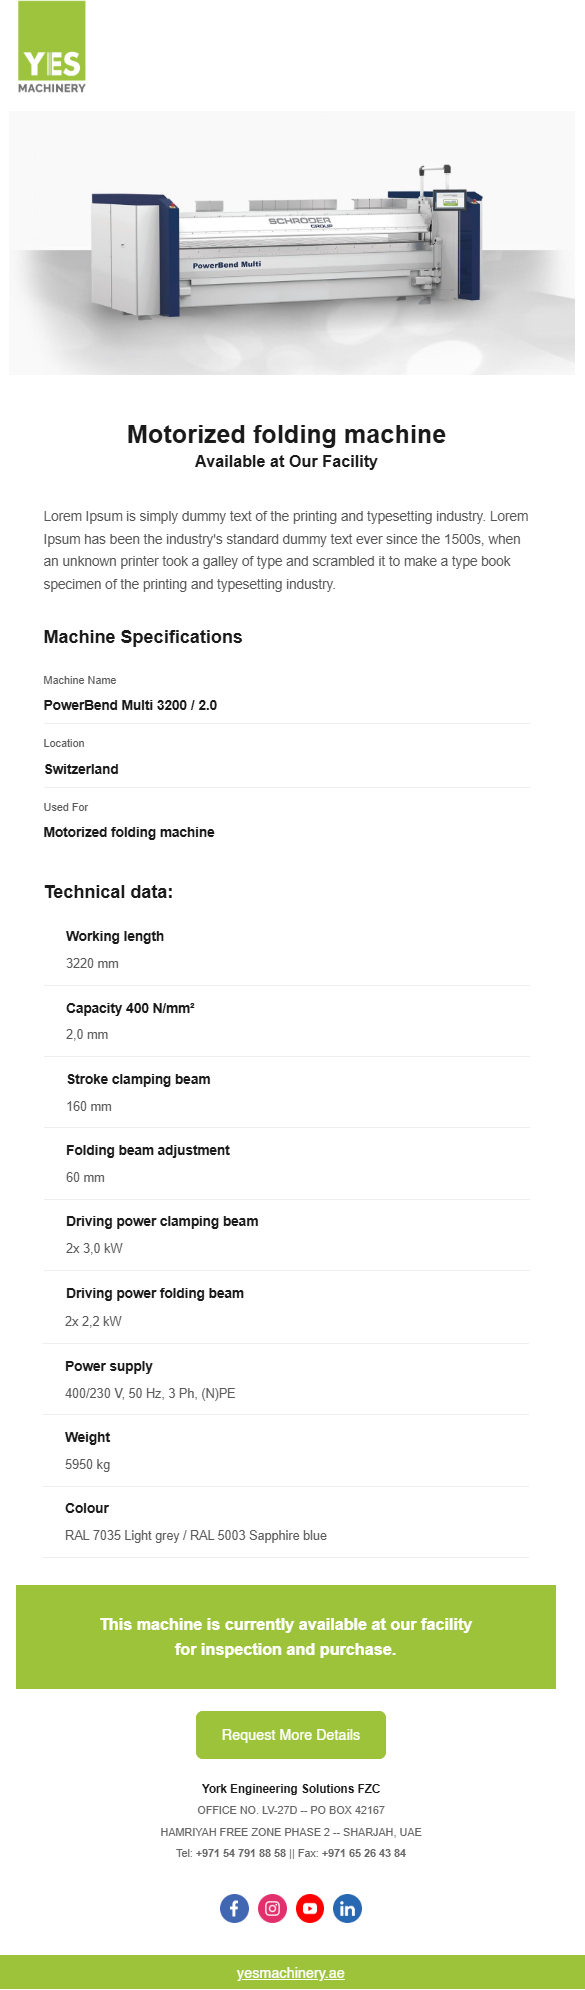
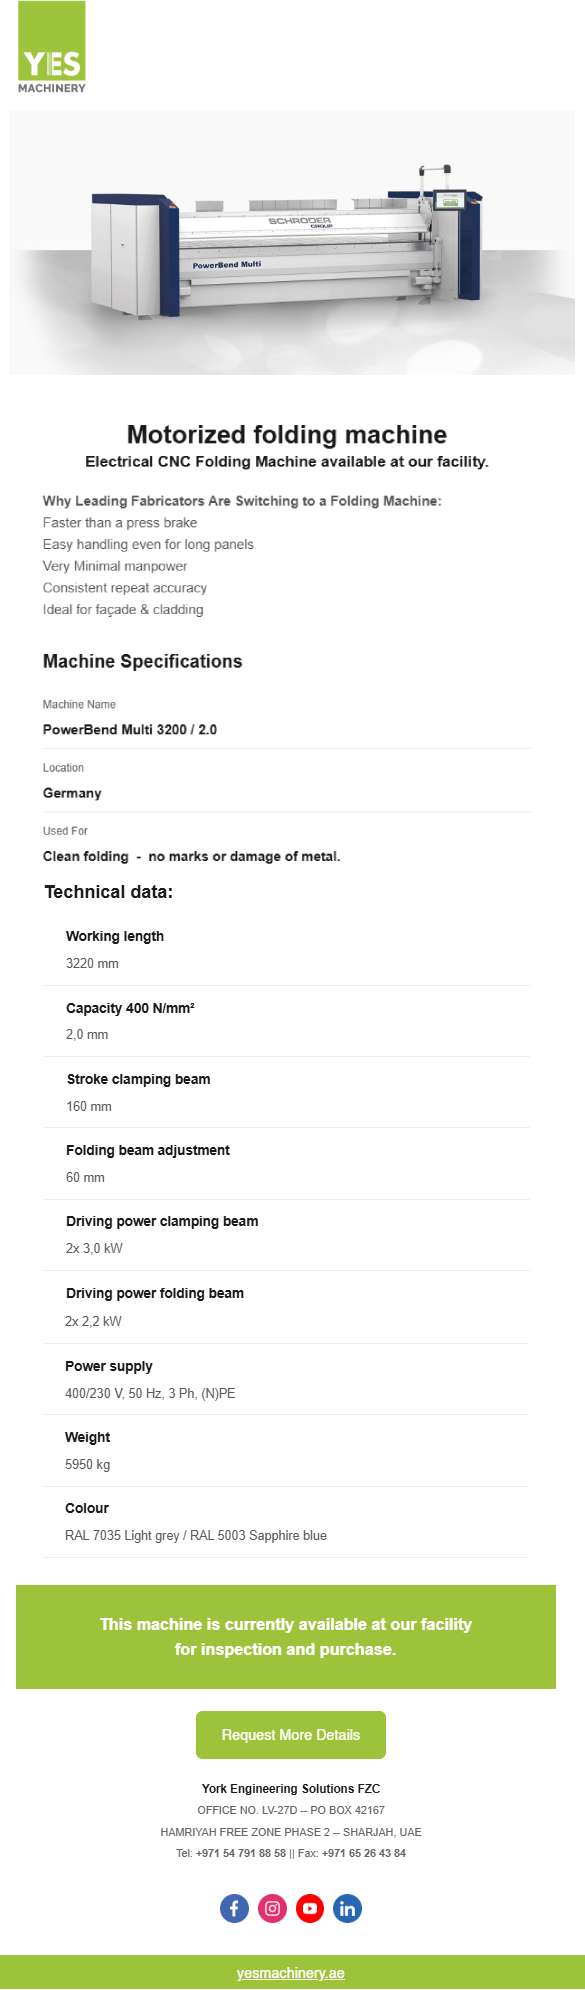
Update index.html content and adjust font size for clarity
Update index.html content and adjust font size for clarity

Changed region(s): [[0.0615, 0.2181, 0.8923, 0.4362], [0.4, 0.405, 0.4615, 0.4362], [0.5231, 0.405, 0.5538, 0.4362]]

diff --git a/index.html b/index.html
@@ -58,9 +58,9 @@
                                 </h1>
                                 <h4
                                     style="margin: 0px; text-align: center; line-height: 1.3; mso-line-height-alt: 130%;">
-                                    <strong><span style="color:rgb(26, 26, 26);"><span style="font-size: 18px"><span
+                                    <strong><span style="color:rgb(26, 26, 26);"><span style="font-size: 17px"><span
                                                     style="font-family: Arial, sans-serif"><span
-                                                        style="background-color: rgb(255, 255, 255)"> Available at Our Facility</span></span></span></span></strong>
+                                                        style="background-color: rgb(255, 255, 255)"> Electrical CNC Folding Machine available at our facility. </span></span></span></span></strong>
                                 </h4>
                             </td>
                         </tr>
@@ -70,7 +70,13 @@
                                     style="margin: 0px; text-align: left; line-height: 24px; mso-line-height-rule: exactly;">
                                     <span style="color:rgb(85, 85, 85);"><span style="font-size: 15px"><span
                                                 style="font-family: Arial, sans-serif"><span
-                                                    style="background-color: rgb(255, 255, 255)"> Lorem Ipsum is simply dummy text of the printing and typesetting industry. Lorem Ipsum has been the industry's standard dummy text ever since the 1500s, when an unknown printer took a galley of type and scrambled it to make a type book specimen of the printing and typesetting industry.
+                                                    style="background-color: rgb(255, 255, 255)"><b>Why Leading Fabricators Are Switching to a Folding Machine:</b> <br>
+
+Faster than a press brake <br>
+Easy handling even for long panels  <br>
+Very Minimal manpower <br>
+Consistent repeat accuracy <br>
+Ideal for façade & cladding <br>
                                                 </span></span></span></span>
                                 </p>
                             </td>
@@ -115,7 +121,7 @@
                                                             style="color:rgb(26, 26, 26);"><span
                                                                 style="font-size: 15px"><span
                                                                     style="font-family: Arial, sans-serif"><span
-                                                                        style="background-color: rgb(255, 255, 255)">Switzerland</span></span></span></span></strong>
+                                                                        style="background-color: rgb(255, 255, 255)">Germany</span></span></span></span></strong>
                                                 </p>
                                             </td>
                                         </tr>
@@ -133,7 +139,7 @@
                                                                 style="font-size: 15px"><span
                                                                     style="font-family: Arial, sans-serif"><span
                                                                         style="background-color: rgb(255, 255, 255)">
-                                                                        Motorized folding machine
+                                                                      Clean folding  -  no marks or damage of metal.
                                                                     </span></span></span></span></strong>
                                                 </p>
                                             </td>
